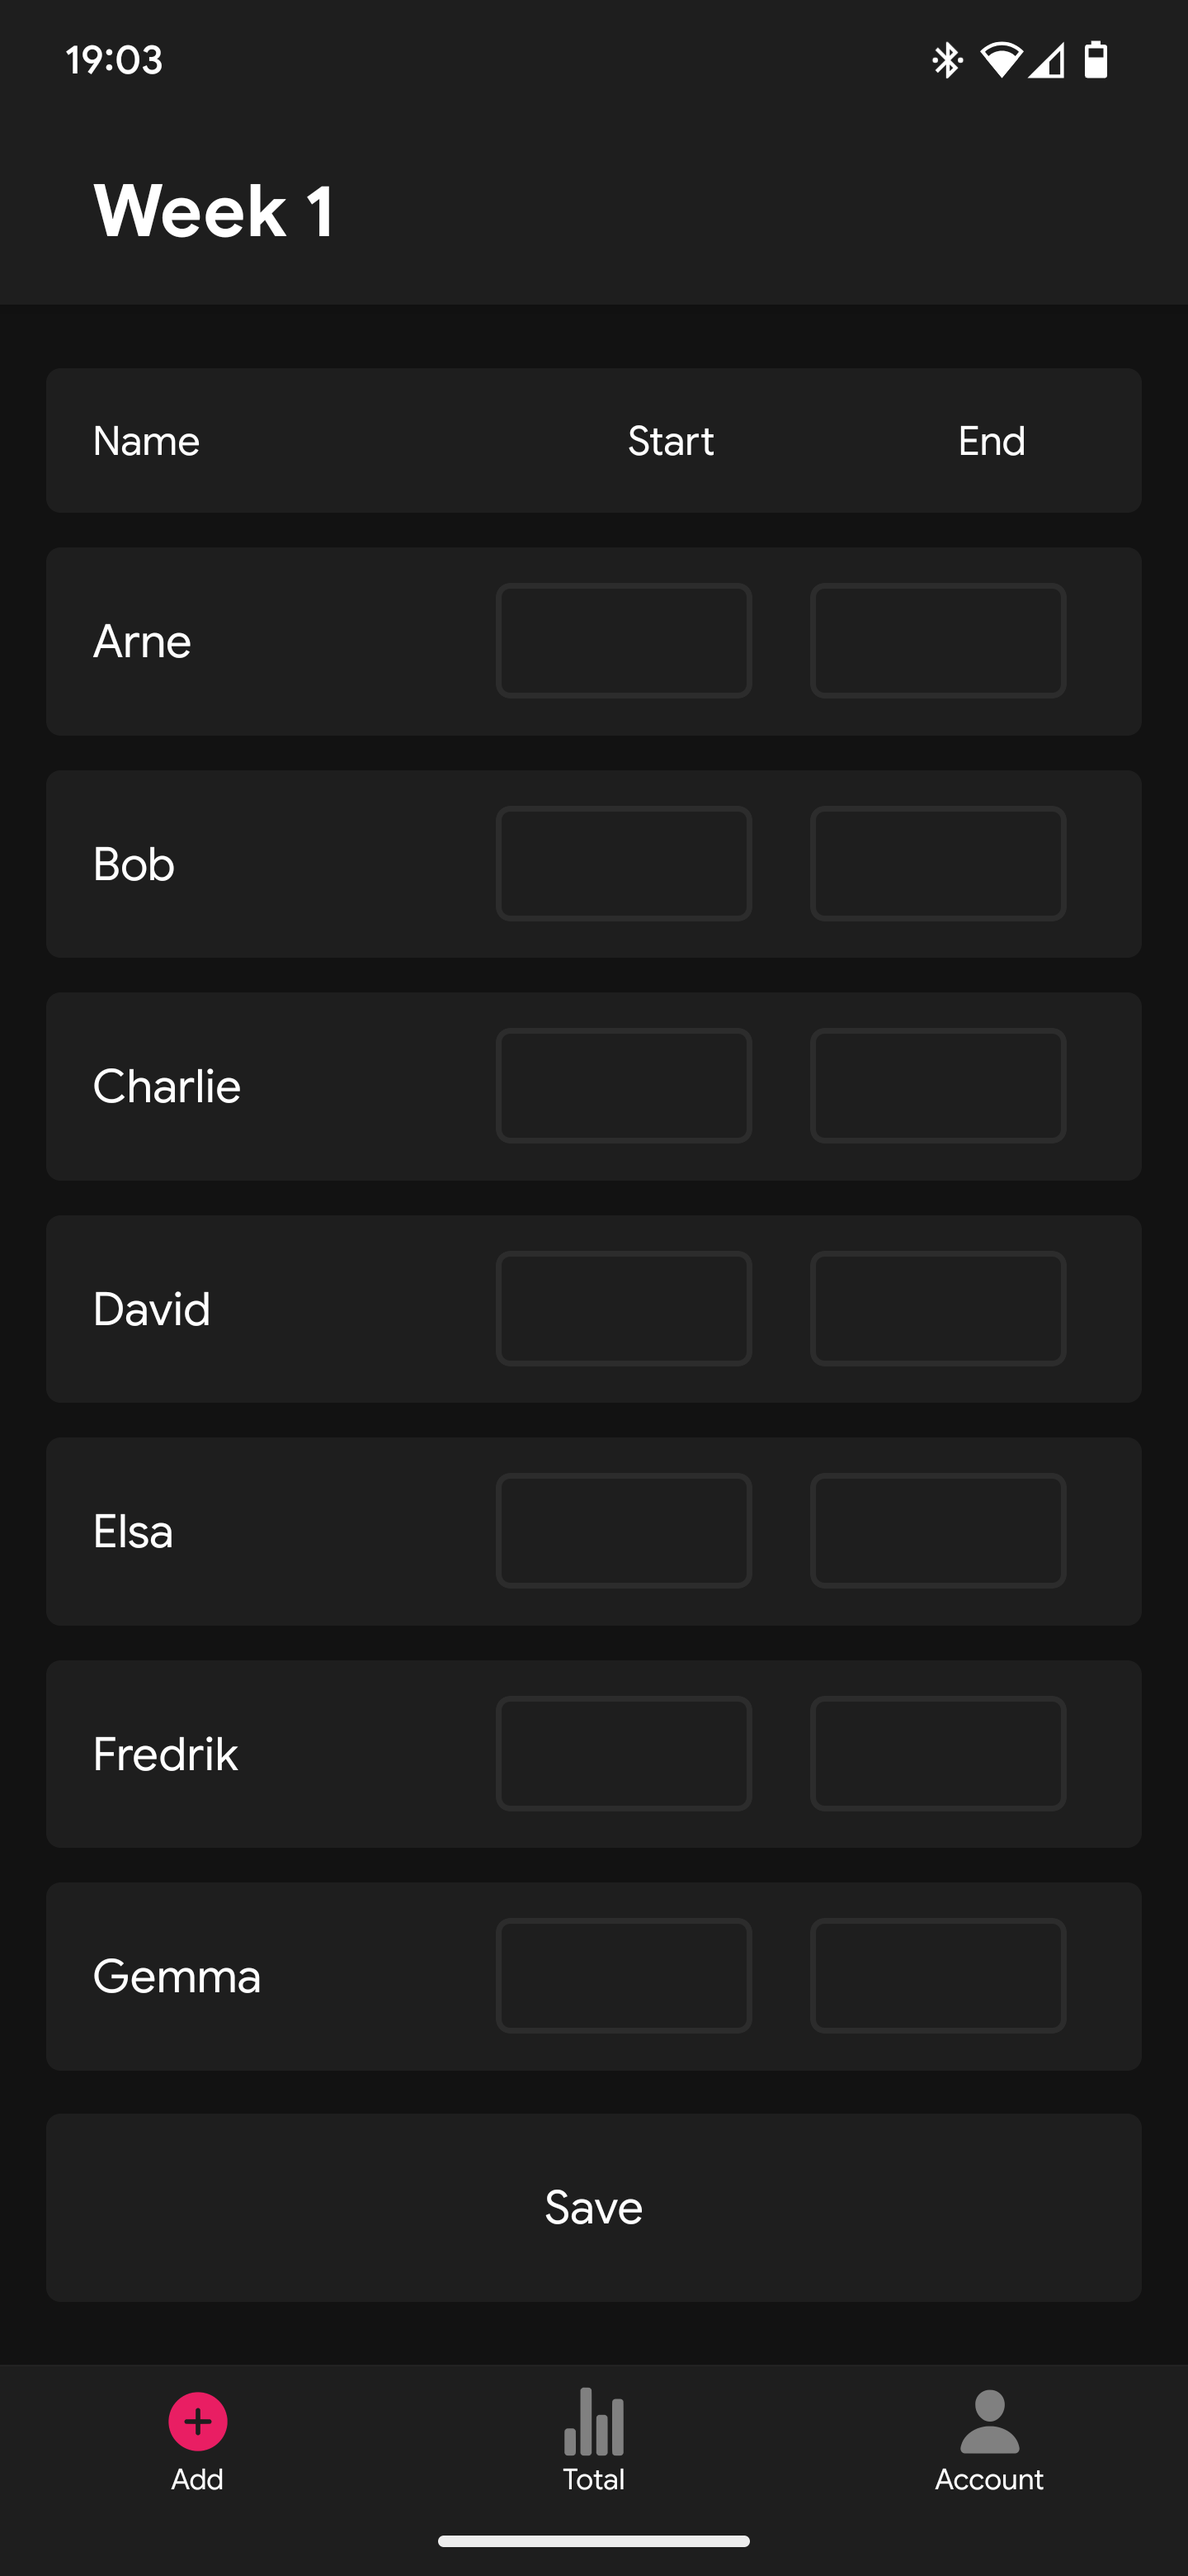
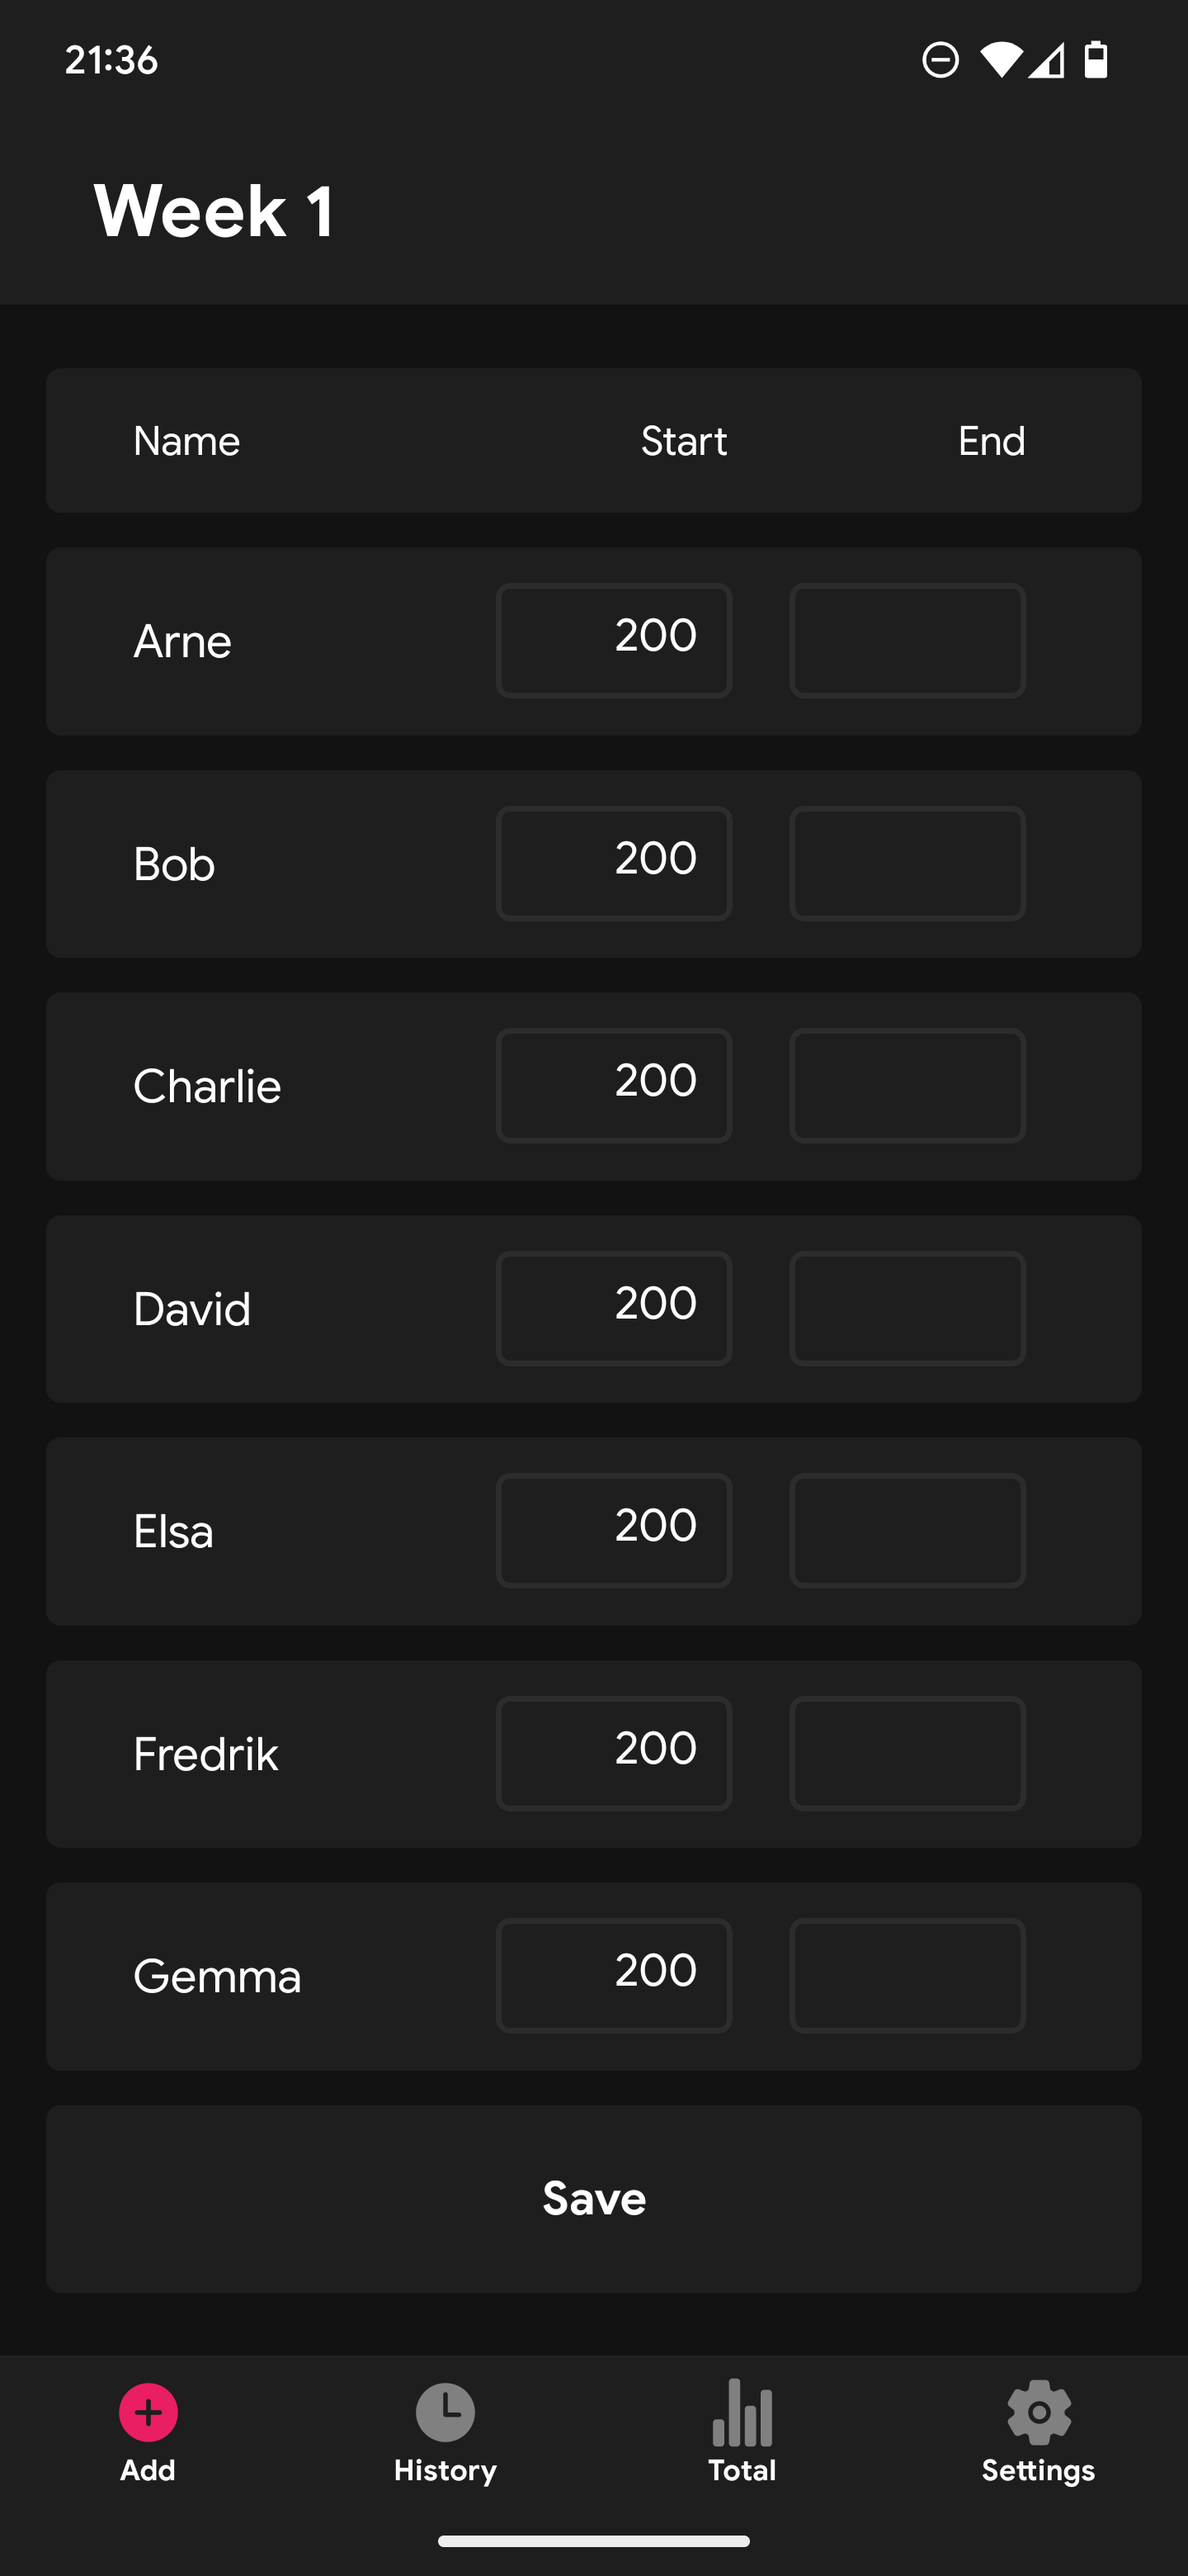
docs(readme): add updated screenshots

diff --git a/README.md b/README.md
@@ -3,12 +3,13 @@
 PokerMaster Pro is a React Native app built with Expo, designed to manage poker balances and synchronize data with Google Sheets. This makes it easy to track players, input game results, and keep a running total of balances in real time.
 
 <p align="left">
-<img width=200 src=screenshots/Add.png/>
-<img width=200 src=screenshots/Total.png/>
-<img width=200 src=screenshots/Account.png/>
+<img width=150 src=screenshots/Add.png/>
+<img width=150 src=screenshots/Total.png/>
+<img width=150 src=screenshots/Total.png/>
+<img width=150 src=screenshots/Settings.png/>
 </p>
 
-_Add, total and account screen._
+_Add, history, total and settings screen._
 
 ## Features
 - Login with Google
